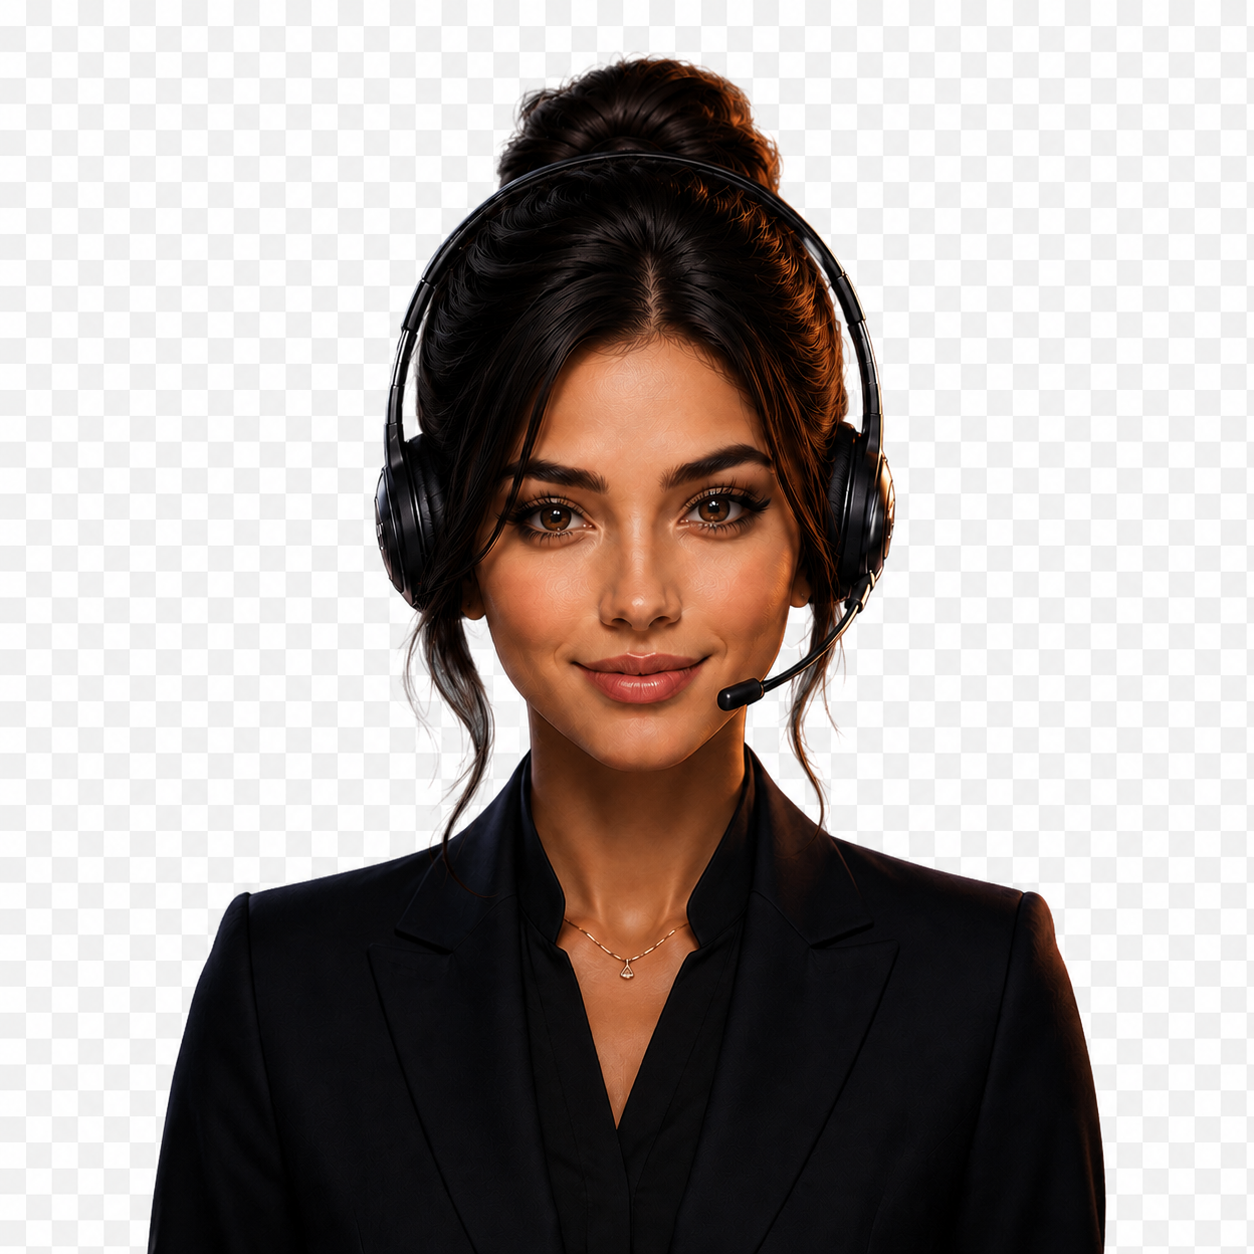
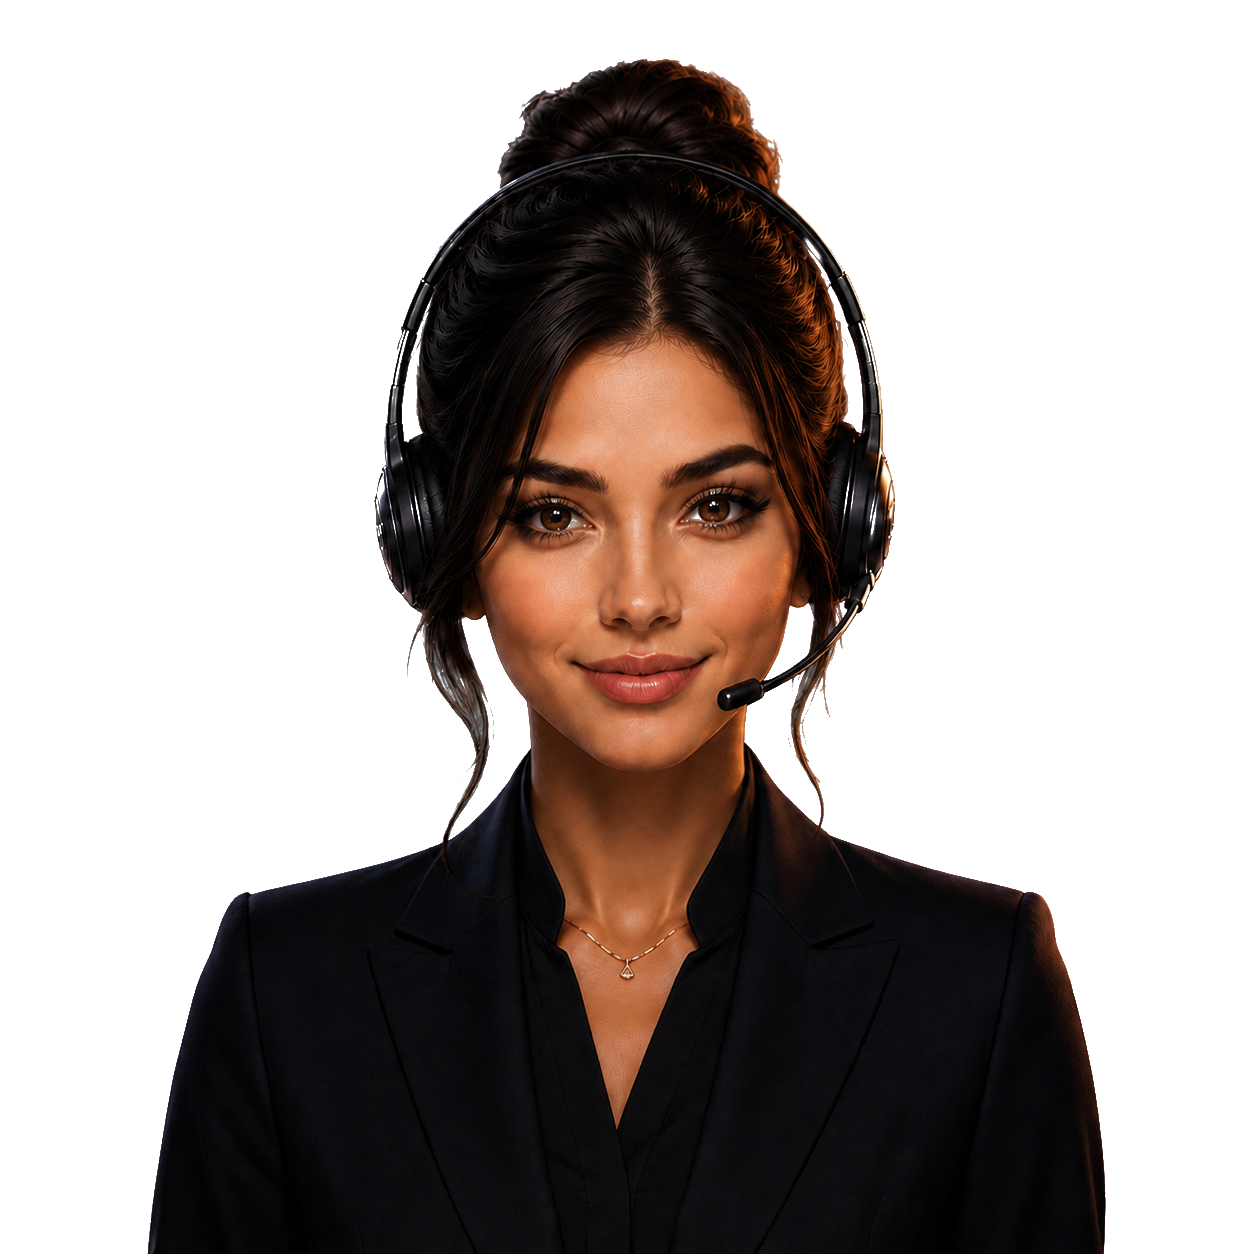
fix: remove baked-in checkerboard background from recepcionista3.png
PNG was exported with transparency shown as checkerboard pixels.
Used PIL (luminance+saturation keying) to convert light achromatic
pixels (lum>145, sat<35) to transparent, with soft feathering
at the transition zone. Saved with proper RGBA transparency.

Also cleaned up CSS masks that were compensating for the issue.
Image now renders cleanly on the dark page background with just
drop-shadow glow effect.

diff --git a/src/App.jsx b/src/App.jsx
@@ -1325,7 +1325,10 @@ function AIAvatarCore() {
           alt="ARIA — AI Receptionist"
           loading="lazy"
           decoding="async"
-          className="relative z-10 w-[260px] sm:w-[300px] drop-shadow-[0_0_40px_rgba(123,92,255,0.5)]"
+          className="relative z-10 w-[260px] sm:w-[300px]"
+          style={{
+            filter: "drop-shadow(0 0 36px rgba(123,92,255,0.6)) drop-shadow(0 0 16px rgba(255,90,77,0.3))",
+          }}
         />
 
         {/* Live badge — top right */}